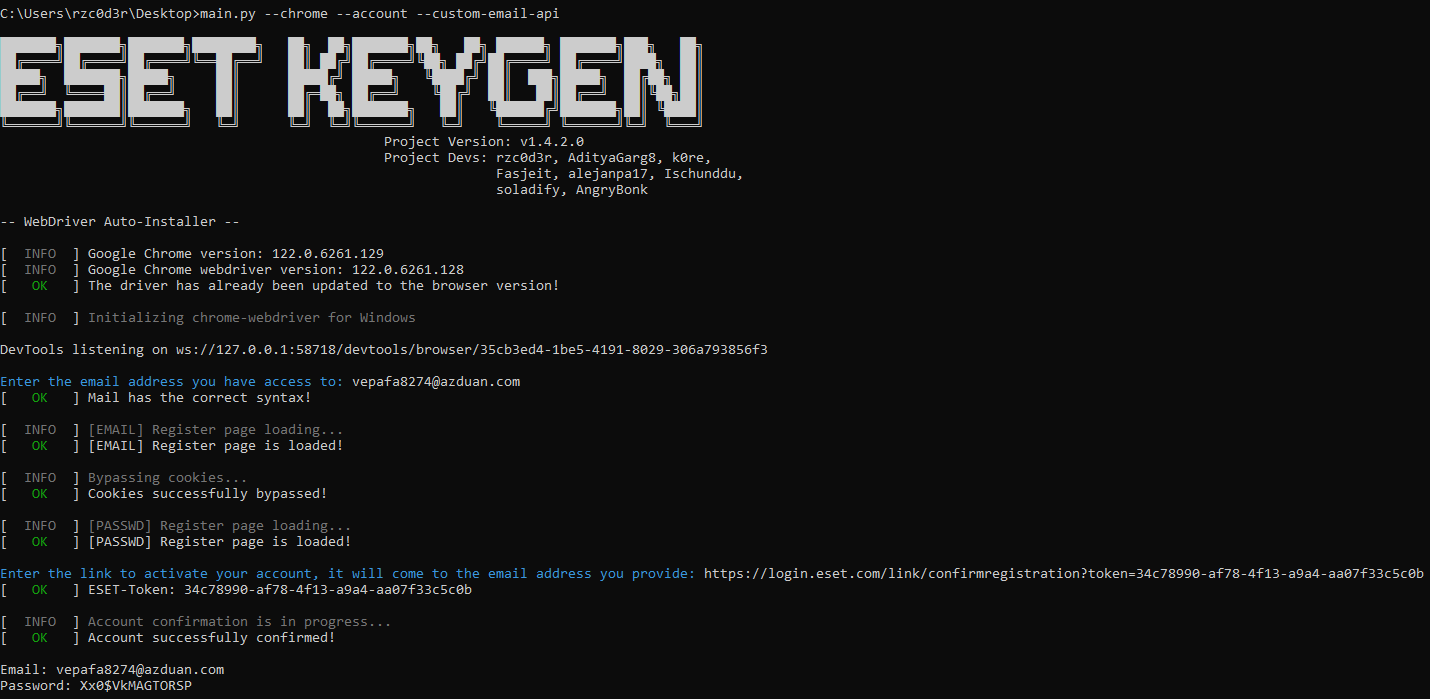
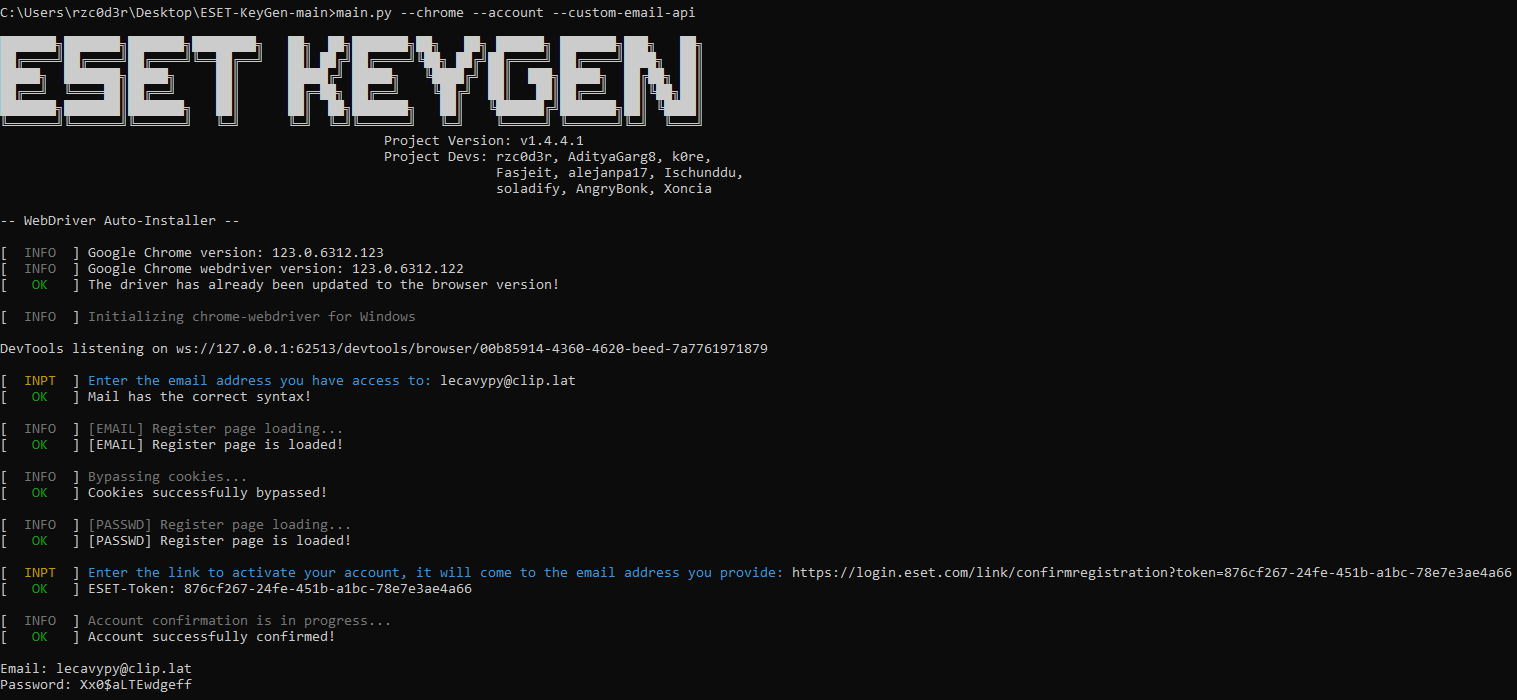
Update to v1.4.4.1
1. Minor code optimizations
2. Added a new type of console messages: ```[INPT]```. This means that the console is waiting for your input from the keyboard
3. Implemented 100% stable algorithm for working with cloudflare captcha
4. Added algorithm to handle cloudflare captcha for Hi2inAPI because hi2in site added cloudflare captcha (hi2in became like tempmail)
5. Update documentation and screenshots

diff --git a/main.py b/main.py
@@ -2,6 +2,8 @@ from selenium.webdriver import Chrome, ChromeOptions, ChromeService
 from selenium.webdriver import Firefox, FirefoxOptions, FirefoxService
 from selenium.webdriver import Edge, EdgeOptions, EdgeService
 
+from pyperclip import paste as get_clipboard_text
+
 import subprocess
 import traceback
 import platform
@@ -24,7 +26,7 @@ LOGO = """
 ██╔══╝  ╚════██║██╔══╝     ██║      ██╔═██╗ ██╔══╝    ╚██╔╝  ██║   ██║██╔══╝  ██║╚██╗██║   
 ███████╗███████║███████╗   ██║      ██║  ██╗███████╗   ██║   ╚██████╔╝███████╗██║ ╚████║   
 ╚══════╝╚══════╝╚══════╝   ╚═╝      ╚═╝  ╚═╝╚══════╝   ╚═╝    ╚═════╝ ╚══════╝╚═╝  ╚═══╝                                                                      
-                                                Project Version: v1.4.4.0
+                                                Project Version: v1.4.4.1
                                                 Project Devs: rzc0d3r, AdityaGarg8, k0re,
                                                               Fasjeit, alejanpa17, Ischunddu,
                                                               soladify, AngryBonk, Xoncia
@@ -105,7 +107,7 @@ class SecEmailAPI(object):
         self.email = None
         self.__api = 'https://www.1secmail.com/api/v1/'
         
-    def register(self):
+    def init(self):
         url = f'{self.__api}?action=genRandomMailbox&count=1'
         try:
             r = requests.get(url)
@@ -147,7 +149,12 @@ class Hi2inAPI(object):
         self.window_handle = None
     
     def init(self):
-        self.driver.get('https://hi2.in/#/')
+        self.driver.execute_script('window.open("https://hi2.in/#/", "_blank")')
+        console_log(f'{Fore.CYAN}Solve the cloudflare captcha on the page manually!!!{Fore.RESET}', INFO, False)
+        input(f'[  {Fore.YELLOW}INPT{Fore.RESET}  ] {Fore.CYAN}Press Enter when you see the hi2in page...{Fore.RESET}')
+        self.driver.switch_to.window(self.driver.window_handles[0])
+        self.driver.close()
+        self.driver.switch_to.window(self.driver.window_handles[0])
         self.window_handle = self.driver.current_window_handle
         SharedTools.untilConditionExecute(
             self.driver,
@@ -199,20 +206,17 @@ class TempMailAPI(object):
     def init(self):
         self.driver.execute_script('window.open("https://temp-mail.org", "_blank")')
         console_log(f'{Fore.CYAN}Solve the cloudflare captcha on the page manually!!!{Fore.RESET}', INFO, False)
-        time.sleep(10)
+        input(f'[  {Fore.YELLOW}INPT{Fore.RESET}  ] {Fore.CYAN}Press Enter when you see the TempMail page...{Fore.RESET}')
         self.driver.switch_to.window(self.driver.window_handles[0])
         self.driver.close()
         self.driver.switch_to.window(self.driver.window_handles[0])
         self.window_handle = self.driver.current_window_handle
-        for _ in range(DEFAULT_MAX_ITER):
-            try:
-                self.email = self.driver.execute_script(f'return {GET_EBID}("mail").value')
-            except:
-                pass
-            if self.email == '':
-                raise RuntimeError('TempMailAPI: Your IP is blocked, try again later or try use VPN!')
-            if self.email.find('@') != -1:
-                self.window_handle = self.driver.current_window_handle
+        self.driver: Chrome
+        for _ in range(DEFAULT_MAX_ITER//2):
+            copy_email_address_button = self.driver.find_element('xpath', "//button[starts-with(@data-clipboard-target, '#mail')]")
+            if copy_email_address_button.is_enabled():
+                copy_email_address_button.click()
+                self.email = get_clipboard_text()
                 return True
             time.sleep(DEFAULT_DELAY)
         raise RuntimeError('TempMailAPI: Your IP is blocked, try again later or try use VPN!')
@@ -287,6 +291,13 @@ class SharedTools(object):
         return ''.join(['Xx0$']+[random.choice(string.ascii_letters) for _ in range(length)])
 
     def initSeleniumWebDriver(browser_name: str, webdriver_path = None, browser_path = '', headless=True):
+        if os.name == 'posix': # For Linux
+            if sys.platform.startswith('linux'):
+                console_log('Initializing chrome-webdriver for Linux', INFO)
+            elif sys.platform == "darwin":
+                console_log('Initializing chrome-webdriver for macOS', INFO)
+        elif os.name == 'nt':
+            console_log('Initializing chrome-webdriver for Windows', INFO)
         driver_options = None
         driver = None
         if browser_name.lower() == 'chrome':
@@ -297,34 +308,20 @@ class SharedTools(object):
             driver_options.add_argument("--lang=en-US")
             if headless:
                 driver_options.add_argument('--headless')
-            driver_service = ChromeService(executable_path=webdriver_path)
             if os.name == 'posix': # For Linux
-                if sys.platform.startswith('linux'):
-                    console_log('Initializing chrome-webdriver for Linux', INFO)
-                elif sys.platform == "darwin":
-                    console_log('Initializing chrome-webdriver for macOS', INFO)
                 driver_options.add_argument('--no-sandbox')
                 driver_options.add_argument('--disable-dev-shm-usage')
-            elif os.name == 'nt':
-                console_log('Initializing chrome-webdriver for Windows', INFO)
-            driver = Chrome(options=driver_options, service=driver_service)
+            driver = Chrome(options=driver_options, service=ChromeService(executable_path=webdriver_path))
         elif browser_name.lower() == 'firefox':
             driver_options = FirefoxOptions()
             driver_options.binary_location = browser_path
-            driver_service = FirefoxService(executable_path=webdriver_path)
             driver_options.set_preference('intl.accept_languages', 'en-US')
             if headless:
                 driver_options.add_argument('--headless')
             if os.name == 'posix': # For Linux
-                if sys.platform.startswith('linux'):
-                    console_log('Initializing firefox-webdriver for Linux', INFO)
-                elif sys.platform == "darwin":
-                    console_log('Initializing firefox-webdriver for macOS', INFO)
                 driver_options.add_argument('--no-sandbox')
                 driver_options.add_argument("--disable-dev-shm-usage")
-            else:
-                console_log('Initializing firefox-webdriver for Windows', INFO)
-            driver = Firefox(options=driver_options, service=driver_service,)
+            driver = Firefox(options=driver_options, service=FirefoxService(executable_path=webdriver_path))
         elif browser_name.lower() == 'edge':
             driver_options = EdgeOptions()
             driver_options.use_chromium = True
@@ -334,24 +331,19 @@ class SharedTools(object):
             driver_options.add_argument("--lang=en-US")
             if headless:
                 driver_options.add_argument('--headless')
-            driver_service = EdgeService(executable_path=webdriver_path)
             if os.name == 'posix': # For Linux
-                if sys.platform.startswith('linux'):
-                    console_log('Initializing edge-webdriver for Linux', INFO)
-                elif sys.platform == "darwin":
-                    console_log('Initializing edge-webdriver for macOS', INFO)
                 driver_options.add_argument('--no-sandbox')
                 driver_options.add_argument('--disable-dev-shm-usage')
-            elif os.name == 'nt':
-                console_log('Initializing edge-webdriver for Windows', INFO)
-            driver = Edge(options=driver_options, service=driver_service)
+            driver = Edge(options=driver_options, service=EdgeService(executable_path=webdriver_path))
+        #driver.set_window_position(0, 0)
+        #driver.set_window_size(640, 640)
         return driver
 
     def parseToken(email_obj, driver=None, eset_business=False, delay=DEFAULT_DELAY, max_iter=DEFAULT_MAX_ITER):
         activated_href = None
         if args['custom_email_api']:
             while True:
-                activated_href = input(f'\n{Fore.CYAN}Enter the link to activate your account, it will come to the email address you provide: {Fore.RESET}').strip()
+                activated_href = input(f'\n[  {Fore.YELLOW}INPT{Fore.RESET}  ] {Fore.CYAN}Enter the link to activate your account, it will come to the email address you provide: {Fore.RESET}').strip()
                 if activated_href is not None:
                     match = re.search(r'token=[a-zA-Z\d:/-]*', activated_href)
                     if match is not None:
@@ -607,6 +599,7 @@ class EsetRegister(object):
             self.driver.switch_to.new_window('EsetRegister')
             self.window_handle = self.driver.current_window_handle
         self.driver.get('https://login.eset.com/Register')
+        uCE(self.driver, f"return {GET_EBID}('email') != null")
         console_log('[EMAIL] Register page is loaded!', OK)
 
         console_log('\nBypassing cookies...', INFO)
@@ -677,7 +670,6 @@ class EsetKeygen(object):
         console_log('\nRequest sending...', INFO)
         self.driver.get('https://home.eset.com/subscriptions')
         uCE(self.driver, f"return {CLICK_WITH_BOOL}({GET_EBAV}('button', 'data-label', 'licenseAssociateHeaderAddNewBtn'))") # V2
-        #uCE(self.driver, f"return {CLICK_WITH_BOOL}({GET_EBAV}('ion-button', 'robot', 'home-overview-empty-add-license-btn'))") # V1
         
         console_log('Waiting for permission to request...', INFO)
         uCE(self.driver, f"return {CLICK_WITH_BOOL}({GET_EBAV}('button', 'data-label', 'license-fork-slide-trial-license-card-button'))")
@@ -879,7 +871,6 @@ if __name__ == '__main__':
     args_parser.add_argument('--skip-webdriver-menu', action='store_true', help='Skips installation/upgrade webdrivers through the my custom wrapper (The built-in selenium-manager will be used)')
     args_parser.add_argument('--no-headless', action='store_true', help='Shows the browser at runtime (The browser is hidden by default, but on Windows 7 this option is enabled by itself)')
     args_parser.add_argument('--custom-browser-location', type=str, default='', help='Set path to the custom browser (to the binary file, useful when using non-standard releases, for example, Firefox Developer Edition)')
-    #args_parser.add_argument('--debug', action='store_true', help='Enables debugging mode, thus saving everything the developer needs to the log file')
     args_parser.add_argument('--email-api', choices=['1secmail', 'hi2in', '10minutemail', 'tempmail'], default='1secmail', help='Specify which api to use for mail')
     args_parser.add_argument('--custom-email-api', action='store_true', help='Allows you to manually specify any email, and all work will go through it. But you will also have to manually read inbox and do what is described in the documentation for this argument')
     try:
@@ -918,21 +909,18 @@ if __name__ == '__main__':
             console_log(f'\n[{args["email_api"]}] Mail registration...', INFO)
             if args['email_api'] == '10minutemail':
                 email_obj = TenMinuteMailAPI(driver)
-                email_obj.init()
             elif args['email_api'] == 'hi2in':
                 email_obj = Hi2inAPI(driver)
-                email_obj.init()
             elif args['email_api'] == 'tempmail':
                 email_obj = TempMailAPI(driver)
-                email_obj.init()
             else:
                 email_obj = SecEmailAPI()
-                email_obj.register()
+            email_obj.init()
             console_log('Mail registration completed successfully!', OK)
         else:
             email_obj = CustomEmailAPI()
             while True:
-                email = input(f'\n{Fore.CYAN}Enter the email address you have access to: {Fore.RESET}').strip()
+                email = input(f'\n[  {Fore.YELLOW}INPT{Fore.RESET}  ] {Fore.CYAN}Enter the email address you have access to: {Fore.RESET}').strip()
                 try:
                     matched_email = re.match(r"[a-z0-9]+@[a-z]+\.[a-z]{2,3}", email).group()
                     if matched_email == email:

diff --git a/wiki/CommandLineArguments.md b/wiki/CommandLineArguments.md
@@ -17,7 +17,6 @@
 | --------------------- | ---------------------------------------------------------------------------------------------------------- |
 | --key | Generating an ESET-HOME license key (example as AGNV-XA2V-EA89-U546-UVJP)|
 | --account             | Generating an ESET HOME Account (To activate the free trial version)                              |
-| --small-business-account                 | Generating an ESET Small Business Security Account (example as TRIAL-0420483498 : pta3b2e3h8) - **NOW DISABLED** |
 | --business-account | Generating an ESET BUSINESS Account (To huge businesses) - **Requires manual captcha input!!!**   |
 | --business-key | Generating an ESET BUSINESS Account and creating a universal license key for ESET products (1 key - 75 devices) - **Requires manual captcha input!!!** |
 | --only-update         | Updates/installs webdrivers and browsers without generating accounts and license keys    

diff --git a/wiki/AccountGenerator.md b/wiki/AccountGenerator.md
@@ -1,6 +1,8 @@
 ## 1. Generation using implemented email APIs (Auto method, but less stable)
-> If you use --email-api tempmail, it is required that the cloudflare captcha be solved within 10s after the page loads.
-> Otherwise, an infinite loop is possible. Also, don't touch, close anything and in windows except for the Captcha button
+> If you use ```--email-api tempmail``` or ```--email-api hi2in```, you need to have the cloudflare captcha solved!
+> Then you need to press Enter after you see the email site, without fail (**[INPT]** console message type)!
+
+> Also, if you see a message like **[INPT]** in the console, it means that you need to do keyboard input into the console!
 
 <details>
   <summary>Example generation through --email-api tempmail</summary>

diff --git a/wiki/KeyGenerator.md b/wiki/KeyGenerator.md
@@ -1,6 +1,8 @@
 ## 1. Generation using implemented email APIs (Auto method, but less stable)
-> If you use --email-api tempmail, it is required that the cloudflare captcha be solved within 10s after the page loads.
-> Otherwise, an infinite loop is possible. Also, don't touch, close anything and in windows except for the Captcha button
+> If you use ```--email-api tempmail``` or ```--email-api hi2in```, you need to have the cloudflare captcha solved!
+> Then you need to press Enter after you see the email site, without fail (**[INPT]** console message type)!
+
+> Also, if you see a message like **[INPT]** in the console, it means that you need to do keyboard input into the console!
 
 <details>
   <summary>Example generation through --email-api tempmail</summary>

diff --git a/README.md b/README.md
@@ -1,5 +1,5 @@
 # ESET-KeyGen
-ESET-KeyGen - Trial-Key & Account generator for ESET Antivirus (last test was on 17.04.2024 at 18:16 UTC+2)
+ESET-KeyGen - Trial-Key & Account generator for ESET Antivirus (last test was on 17.04.2024 at 20:30 UTC+2)
 
 ![](img/project_preview.png)
 
